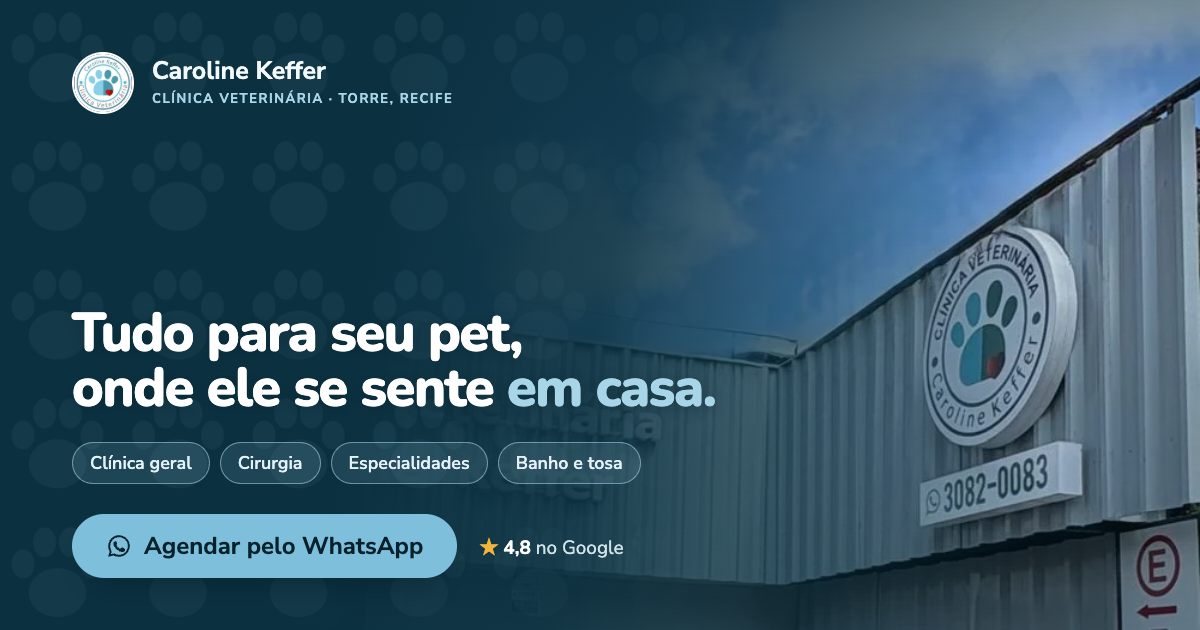
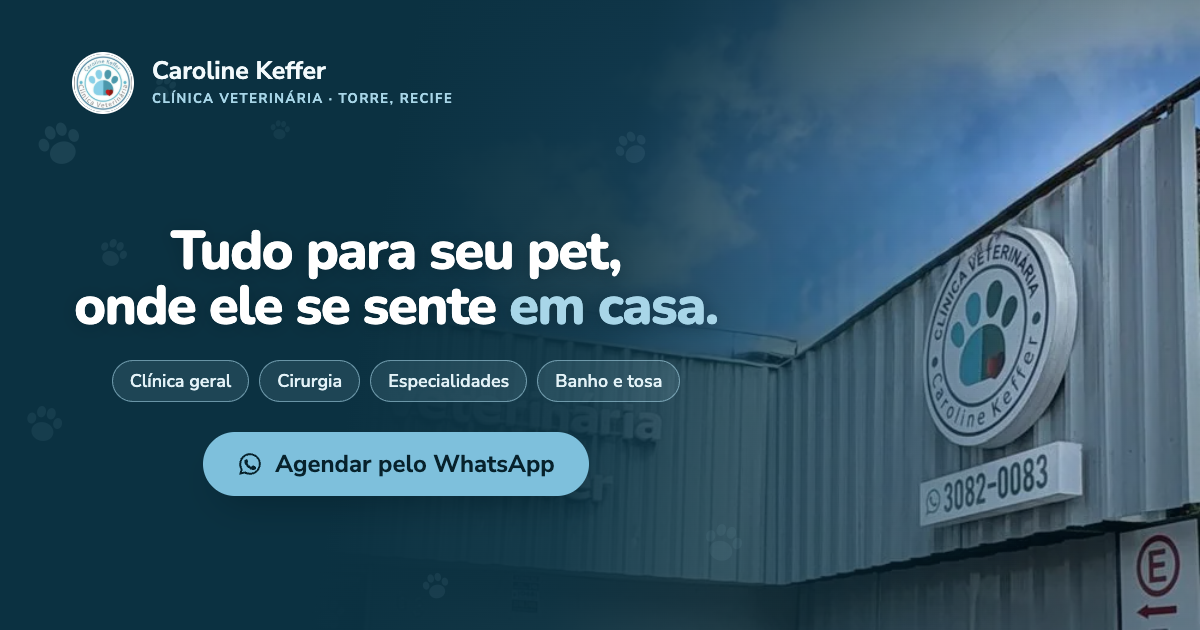
Dedo da Dra. Carol igual aos outros e card de compartilhamento centralizado
- Sai o anel ciano fixo do dedo da Dra. Carol no hero (o destaque dela fica
  no rótulo, como nos outros dedos)
- Card de compartilhamento: título, categorias e botão centralizados, sem a
  nota do Google, e poucas patinhas espalhadas no lugar da textura repetida

Changed region(s): [[0.0617, 0.3619, 0.6167, 0.9349]]

diff --git a/site/app/globals.css b/site/app/globals.css
@@ -637,12 +637,10 @@
   }
 }
 
-/* O dedo da Dra. Carol é o destaque (BRIEF): anel ciano fixo. */
-.hero-dedo--destaque .hero-dedo-foto {
-  outline: 3px solid #7ec0dc;
-  outline-offset: 5px;
-}
-
+/*
+  O dedo da Dra. Carol não tem mais anel próprio (JM, 17/09/2026: "deixa igual
+  aos outros"). O destaque dela ficou só no rótulo.
+*/
 /*
   Celular e tablet (JM, 16/09/2026): sem hover, e os quatro dedos iguais, com
   o mesmo anel ciano e o mesmo brilho em volta. O destaque da Dra. Carol fica
@@ -679,17 +677,10 @@
   transition: box-shadow 0.3s ease;
 }
 
-/*
-  Rótulo da Dra. Carol: branco como os outros, com o anel ciano do dedo em
-  volta. Em ciano chapado ele parecia um segundo botão e sumia no fundo.
-*/
+/* Rótulo da Dra. Carol: igual aos outros, só com a letra um pouco mais forte. */
 .hero-dedo--destaque .hero-dedo-rotulo {
-  background: #ffffff;
   color: #0d4658;
   font-weight: 800;
-  box-shadow:
-    0 0 0 2px #7ec0dc,
-    0 8px 18px -8px rgb(4 30 40 / 0.7);
 }
 
 /* No celular só a Dra. Carol tem rótulo: quatro pílulas lotariam a pata pequena. */
